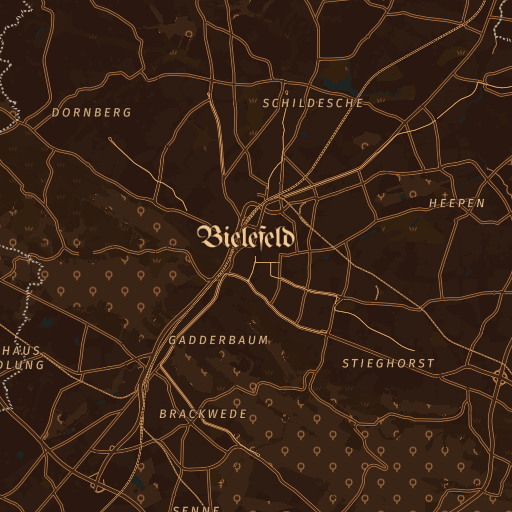
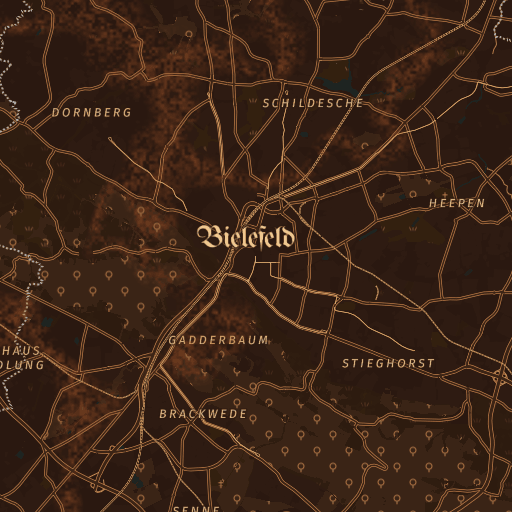
Nordlicht: dunkler Partner von Island mit eingebackenem Nordlicht (stains blend = aurora), Posen je Figur

diff --git a/make-tiles.py b/make-tiles.py
@@ -409,7 +409,10 @@ FIG_CELL = (0.004, 0.006)  # Raster für Figuren in Grad (Breite, Länge), ~450 
 
 
 def fig_poses(name, only=None):
-    """Posen einer Figur, mit only (figures.poses im Stil) nur diese, z. B. ["schlaeft"]."""
+    """Posen einer Figur, mit only (figures.poses im Stil) nur diese, z. B. ["schlaeft"]; als Tabelle je Figur, "*" für
+    alle übrigen (Nordlicht: Tiere schlafen, Trolle sind wach)."""
+    if isinstance(only, dict):
+        only = only.get(name, only.get("*"))
     return sorted(f for f in (ROOT / "vendor" / "figures" / name).glob("*.svg") if not only or f.stem in only)
 
 
@@ -1033,6 +1036,24 @@ def stain_png(data, x, y, cfg):
         rust = (np.clip(1 - np.abs(z + .02) * 45, 0, 1) * np.clip(grain * 2 - .6, 0, 1))[..., None] * .5   # Saum um die Zone
         px = px * (1 - rust) + hexc(cfg.get("rust", "#b0582a")) * rust
         out = np.clip(px * (1 - crust) + green * crust, 0, 255)
+    elif cfg.get("blend") == "aurora":  # Nordlicht (Island-Partner, Nutzerwunsch 2026-11-25): Lichtvorhänge in Bändern alle
+        # ~900 px, die sich schlängeln; unten scharfe helle Kante in color (grün), nach oben ausblassend zu color2
+        # (violett), feine senkrechte Strahlen, nicht überall gleich stark; aufhellend (screen), sonst verschwindet es
+        s = cfg.get("scale", 1)
+        wob = ((noise(gx / (520 * s), np.full_like(gx, 3.5), 11) - .5) * 420 + (noise(gx / (150 * s), np.full_like(gx, 1.5), 13) - .5) * 120) * s
+        v = (gy + wob) / (900 * s)
+        band = np.floor(v)
+        r = v - band                                     # 0 oben … 1 Unterkante
+        ray = noise(gx / (7 * s), band * 7.3, 21) * .6 + noise(gx / (23 * s), band * 5.1, 23) * .4   # Strahlen, 0..1
+        reach = 1.2 + 5 * (1 - ray)                      # helle Strahlen reichen weit nach oben, dunkle kaum
+        glow = (r ** reach + .8 * r ** 14) * np.clip((1 - r) * 18, 0, 1) * (.25 + .75 * ray)   # + heller Saum unten
+        env = np.clip(noise((gx + band * 977) / (650 * s), band * 3.1, 31) * 1.8 - .45, 0, 1)
+        a = (glow * env)[..., None] * cfg.get("strength", .35)
+        hexc = lambda h: np.array([int(h[i:i + 2], 16) for i in (1, 3, 5)], float)
+        t = (r ** 3)[..., None]
+        light = hexc(cfg.get("color", "#4af0a0")) * t + hexc(cfg.get("color2", "#a070f0")) * (1 - t)
+        px = np.asarray(im, float)
+        out = np.clip(255 - (255 - px) * (1 - a * light / 255), 0, 255)
     else:
         out = np.asarray(im, float) * (1 - a * (1 - col))
     buf = io.BytesIO()
@@ -1242,6 +1263,8 @@ def readme_previews(a, mb):
         style = build_style(st, meta.get("preview_font", meta.get("font")), (a.lat, a.lon))[0]
         with tileserver(style, f"readme-{st.stem}", mb) as base:
             data = fetch(f"{base}/static/{a.lon},{a.lat},12/512x512.png")
+        if meta.get("stains"):   # Flecken/Nordlicht wie in den Kacheln (Bild wie eine @2x-Kachel bei 0/0)
+            data = stain_png(data, 0, 0, meta["stains"])
         data = quantize(data, a.colors or meta.get("colors", 32))
         (dest / f"{st.stem}.png").write_bytes(data)
         optimize([dest / f"{st.stem}.png"])

diff --git a/CLAUDE.md b/CLAUDE.md
@@ -38,7 +38,7 @@ There are no tests. To check a rendering change, re-render and look at a tile ne
    - Measured for 198 z16 retina tiles: 1 worker 8.5 s, 4 workers 2.6 s, 8 or more about 3.4 s, because rendering and WebP encoding already use several cores. Container start is about 0.7 s, so one container per variant is fine.
    - Format: by default each tile is fetched as PNG and piped through `quantize()`: `pngquant <colors> --nofs --strip` (`--colors`, else the style's `colors`, else 32; Stadtlichter/Blaue Stunde use 64 because lamp pools and trail glows broke into rings at 32, ~30 % larger tiles), and `optimize()` runs `oxipng -o 2` over the new files after the container has stopped (optional; looked up in PATH and `~/.cargo/bin`). Measured on 80 retina tiles around the Sparrenburg: oxipng saves 7–10 % losslessly (about 0.2 s per tile on this 2-core VM); 32 colours + oxipng is the size of 24 without it, but more accurate (RMSE 0.70 % vs 0.88 %). 16 colours + oxipng would be 19 % smaller with no visible difference in samples, 12 loses icon colours. ImageMagick quantising is 3–4× slower. `--format webp` keeps the old path. The extension is stored as `ext` in the config, and `template.html`/`streifen.html` build tile URLs from it.
    - Finally it fills `template.html` into `out/<name>/index.html` by replacing the `/*CONFIG*/{}` placeholder with JSON. The config includes `style`, `font`, `category`, `mode`, `family` and `attribution`.
-`tileserver(style, tag, mb)` is the context manager both paths share. `render()` fetches tiles through it. `readme_previews()` fetches one tileserver static image per style (`/styles/map/static/lon,lat,12/512x512.png`) in its `preview_font`, runs it through pngquant and writes it to `docs/previews/`. The README gallery is a Hell/Dunkel table per family that links those files, so update it when styles are added or renamed.
+`tileserver(style, tag, mb)` is the context manager both paths share. `render()` fetches tiles through it. `readme_previews()` fetches one tileserver static image per style (`/styles/map/static/lon,lat,12/512x512.png`) in its `preview_font`, bakes in `stains` like a @2x tile at 0/0 (so aurora/patina show), runs it through pngquant and writes it to `docs/previews/`. The README gallery is a Hell/Dunkel table per family that links those files, so update it when styles are added or renamed.
 5. `write_previews()` copies `streifen.html` as `index.html` (same page as `site/`; an existing `index.html` without `variants.js` is never overwritten, so `--out` into a website is safe; old `compare.html`/`streifen.html` are deleted) and Leaflet into `out/`, and regenerates `out/variants.js` (`VARIANTS`, `TITLES`, `CONFIGS`) from every `out/*/index.html`.
 
 **The script and `template.html` are coupled.** The tile coverage in `tiles_for()` assumes Leaflet's `maxBounds` = the `--radius` bbox:
@@ -156,8 +156,10 @@ There are no tests. To check a rendering change, re-render and look at a tile ne
       - Places tuning: very common classes (shop, garden, park, kindergarten under class school) made single figures dominate; keep places to rarer classes and check the spread with a `figures()` dry run (Counter over `properties.f`).
       - The layer lies below all labels, with `icon-allow-overlap`/`ignore-placement`, because collision would decide differently per tile and cut figures at tile seams. Historisch/Kupferstich use the same mechanism for their Fabelwesen.
     - Marker `look = "manga"` (bubble only): thick ink border, hard offset shadow, "!" in `color2`; CSS in `template.html` and `src/streifen.css`, JS in both `markerIcon()` copies.
-  - **Island** (user request 2026-11-25, standard, family "Island"; dark partner "Nordlicht" planned: polar night, aurora baked into the tiles like `stains`, trolls/huldufólk awake, animals asleep): Icelandic summer landscape. Moss-grey ground, patterns `moos`/`lupinen`/`birken` (vendor/patterns), glacier-turquoise water with `water_lines`, roofs by OSM id in Reykjavík corrugated-iron colours (building-top translated −1.5 px), lava-grey roads, mustard primary, oxblood motorway. Alegreya Sans (group `display`), place labels and marker in Uncial Antiqua (group `uncial`), marker `look = "strick"` (knitted zigzag border; CSS in `template.html` and `src/streifen.css`). No rock/quarry layer exists in `style/base.json`, so the planned basalt hatching was skipped.
+  - **Island** / **Nordlicht** (user request 2026-11-25, standard, family "Island"): Icelandic summer landscape. Moss-grey ground, patterns `moos`/`lupinen`/`birken` (vendor/patterns), glacier-turquoise water with `water_lines`, roofs by OSM id in Reykjavík corrugated-iron colours (building-top translated −1.5 px), lava-grey roads, mustard primary, oxblood motorway. Alegreya Sans (group `display`), place labels and marker in Uncial Antiqua (group `uncial`), marker `look = "strick"` (knitted zigzag border; CSS in `template.html` and `src/streifen.css`). No rock/quarry layer exists in `style/base.json`, so the planned basalt hatching was skipped.
     - Figures (`ISLAND` in `tools/gen_figures.py`, palette `ISL`): Scandinavian picture-book folk art, approved by the user on horse/troll/puffin samples: flat fills, no hatching, shadow = one darker fill, dot eyes, red cheeks, ornaments (lopapeysa yoke, zigzag, dots) without outline via `clip()`, thin night-blue outline (`line = 1.2`, `size = 64`). 18 figures, water ones (`nykur`, `marbendill`, `seewurm`, `wal`, `eiderente`) only in water via `isl_water()`. `jolasveinn` must not look like Santa (grey hood, no red cap/white pompom); `troll` sleeps as a mossy rock (turns to stone in sunlight); `huldufolk` pose `verschwindet` is half transparent.
+    - `nordlicht` (dark partner): polar night blue-black, dark roofs with warm windows (`fenster` pattern per roof colour by OSM id via a `match` in `fill-pattern`), `colors = 64`, figures with `ink`/`sticker` overrides (moonlit rim). Aurora via `stains = { blend = "aurora" }` (`stain_png()`): world-aligned bands every ~900 px whose lower edge wobbles (two noise octaves), bright green rim (`color`) fading up to violet (`color2`), vertical rays whose reach varies, envelope so not every band is lit; screen blend (lightens). Tune it on blank tiles by calling `stain_png()` directly, much faster than re-rendering.
+    - `[figures.poses]` may be a table per figure with `"*"` for the rest (`fig_poses()`): in Nordlicht the animals sleep, trolls, huldufólk, fairies, Yule cat/lad and water creatures are awake.
   - **Stadtlichter** / **Blaue Stunde** (user request 2026-11-24/25, family "Stadtlichter", standard, drafts not yet on `site.toml`): a city at night from above, after a night photo; not named "Night City" (Cyberpunk 2077 trademark). Roads: bright core + blurred glow casings, cores darken to dark asphalt from z15 and the sodium glow casings drop to half opacity, so the light trails carry the light (user 2026-11-25, long-exposure reference photos); buildings get a window grid per OSM id (`fenster-dicht`/`fenster-spaerlich`: half nearly dark, rest warm, every sixth cold; high-rises ≥ 18 m cold; each window glows: two Gaussian blurs inside the SVG, the windows drawn again at ±32 px so the glow wraps seamlessly, clipped to 32×32 so it does not bleed into neighbouring sprite images), replacing the random dots the user found noise-like (blocks are Planetiler-merged at z14, so one grid covers a whole block); the `stadtlichter` dots stay only on residential/commercial/industrial landuse and fade out by z15; Blaue Stunde = same layers on mid-blue dusk, glows weaker.
     - Style key `[[layers]]` (`add_layer()`): extra layer, `like` = template layer (copied with filter, paint, layout; an own `filter` is ANDed), or `source-layer` for a fresh layer from the template's source (give `type` if it differs); inserted after `after` (default `like`). The `[paint]`/`[layout]` globs do not reach these layers. Used for light trails like a long exposure (per side a bundle of three thin streaks via `line-offset`: right red/orange/pink-red, left white/yellowish/pale blue, plus a wide blurred glow; all road classes, width/opacity/offset scaled per class by a `match`; the block is generated, keep its parameters consistent when editing by hand), street lamps like lamps in fog (both sides of minor roads, round-capped `line-dasharray` layers on the same spots: one wide, fully soft golden pool centred on the road (blur = half width; offset to the sides it made spikes at bends) that lies below the buildings so the light is trapped between the houses (user 2026-11-25), plus the same pool at 40 % opacity above roads and buildings (`laterne-bloom`: lights the carriageway and blooms slightly over building edges), per side a tighter glow and a tiny bright core; the gap is in line widths, so gap = 25.2 px / width; dots bunch at segment ends, that is the dasharray restart), floodlit pitches, violet neon on pedestrian streets.
   - **Nerd** (editor-theme palettes): `dayfox`/`nightfox`, `catppuccin-latte`/`-mocha`, `dracula-light` ("Alucard", the official Dracula light palette) / `dracula`, `solarized-light`/`-dark`, `gruvbox-light`/`-dark`, `everforest-light`/`-dark`, `one-light`/`-dark` (Atom One) (all MIT), and `tokyonight-day`/`-night` (Apache-2.0).

diff --git a/README.md b/README.md
@@ -28,7 +28,7 @@ Alle Stile in ihrer Vorschau-Schrift (Standard: Fira Sans, Nerd: Maple Mono), Bi
 | **Historisch**<br><sub>Standard</sub> | <a href="docs/previews/historisch.png"><img src="docs/previews/historisch.png" width="256" alt="Historisch"></a><br>Historisch | <a href="docs/previews/gaslicht.png"><img src="docs/previews/gaslicht.png" width="256" alt="Gaslicht"></a><br>Gaslicht |
 | **Kupferstich**<br><sub>Standard</sub> | <a href="docs/previews/kupferstich.png"><img src="docs/previews/kupferstich.png" width="256" alt="Kupferstich"></a><br>Kupferstich | <a href="docs/previews/kupferplatte.png"><img src="docs/previews/kupferplatte.png" width="256" alt="Kupferplatte"></a><br>Kupferplatte |
 | **Anime**<br><sub>Standard</sub> | <a href="docs/previews/anime.png"><img src="docs/previews/anime.png" width="256" alt="Anime"></a><br>Anime | <a href="docs/previews/anime-nacht.png"><img src="docs/previews/anime-nacht.png" width="256" alt="Anime Nacht"></a><br>Anime Nacht |
-| **Island**<br><sub>Standard</sub> | <a href="docs/previews/island.png"><img src="docs/previews/island.png" width="256" alt="Island"></a><br>Island | (dunkel: Nordlicht, geplant) |
+| **Island**<br><sub>Standard</sub> | <a href="docs/previews/island.png"><img src="docs/previews/island.png" width="256" alt="Island"></a><br>Island | <a href="docs/previews/nordlicht.png"><img src="docs/previews/nordlicht.png" width="256" alt="Nordlicht"></a><br>Nordlicht |
 | **Stadtlichter**<br><sub>Standard</sub> | <a href="docs/previews/blaue-stunde.png"><img src="docs/previews/blaue-stunde.png" width="256" alt="Blaue Stunde"></a><br>Blaue Stunde | <a href="docs/previews/stadtlichter.png"><img src="docs/previews/stadtlichter.png" width="256" alt="Stadtlichter"></a><br>Stadtlichter |
 | **Catppuccin**<br><sub>Nerd</sub> | <a href="docs/previews/catppuccin-latte.png"><img src="docs/previews/catppuccin-latte.png" width="256" alt="Catppuccin Latte"></a><br>Catppuccin Latte | <a href="docs/previews/catppuccin-mocha.png"><img src="docs/previews/catppuccin-mocha.png" width="256" alt="Catppuccin Mocha"></a><br>Catppuccin Mocha |
 | **Dracula**<br><sub>Nerd</sub> | <a href="docs/previews/dracula-light.png"><img src="docs/previews/dracula-light.png" width="256" alt="Alucard"></a><br>Alucard | <a href="docs/previews/dracula.png"><img src="docs/previews/dracula.png" width="256" alt="Dracula"></a><br>Dracula |
@@ -144,7 +144,7 @@ Die Ebenennamen stehen in `style/base.json`. Pro Ebene werden nur passende Eigen
 | **Historisch** | Standard | TeX Gyre Schola, Ortsnamen UnifrakturMaguntia | eigener Stil: kolorierter Stadtplan um 1900 (rosa Häuser, Wald-/Wiesen-/Friedhofs-Signaturen, Wasserlinien, Bahn als Schwarz-Weiß-Band, stillgelegte Strecken aus OSM wie in Betrieb, Altersflecken in den Kacheln, Papierkorn im Browser); dunkel: **Gaslicht**, derselbe Plan bei Nacht (blauschwarzes Papier, gelbe Hauptstraßen, Gaslaternen an Nebenstraßen) |
 | **Kupferstich** | Standard | IM Fell English, Ortsnamen UnifrakturMaguntia | eigener Stil im Look eines Kupferstichs des 18. Jh.: einfarbig Sepia, sonst wie Historisch; dunkel: **Kupferplatte**, die gestochene Platte selbst (dunkle Bronze, helle Linien, Grünspan statt Altersflecken) |
 | **Anime** / Nacht | Standard | Kalam, Orts- und POI-Namen Bangers | eigener Stil im allgemeinen Look von Anime-Zeichentrick (keine Studios, Filme oder Figuren): Cel-Shading mit hartem Schlagschatten, Tuschekonturen, Dächer in Pastelltönen, Wolkenbäume, Manga-Grasbüschel, Rasterfolie, Wasser mit Glanzlinien, Manga-Sprechblase als Marker; Nacht in Tiefblau/Violett mit leuchtenden Fenstern |
-| **Island** | Standard | Alegreya Sans, Ortsnamen Uncial Antiqua | eigener Stil: isländische Sommerlandschaft (Moosgrund, Lupinenfelder, Birkengebüsch, gletschertürkises Wasser, bunte Wellblechdächer, senfgelbe Hauptstraßen), Marker mit Strickborte; Figuren als skandinavische Bilderbuch-Volkskunst: Islandpferde, Schafe, Papageitaucher, Polarfuchs, Kolkrabe, Rentier, Trolle (schlafend zu Stein), Huldufólk in Tracht, Elfensteine, Feen, Weihnachtskatze und Weihnachtskerl, Badende im heißen Becken; im Wasser Nykur, Marbendill, Seewurm, Wal und Eiderente |
+| **Island** | Standard | Alegreya Sans, Ortsnamen Uncial Antiqua | eigener Stil: isländische Sommerlandschaft (Moosgrund, Lupinenfelder, Birkengebüsch, gletschertürkises Wasser, bunte Wellblechdächer, senfgelbe Hauptstraßen), Marker mit Strickborte; Figuren als skandinavische Bilderbuch-Volkskunst: Islandpferde, Schafe, Papageitaucher, Polarfuchs, Kolkrabe, Rentier, Trolle (schlafend zu Stein), Huldufólk in Tracht, Elfensteine, Feen, Weihnachtskatze und Weihnachtskerl, Badende im heißen Becken; im Wasser Nykur, Marbendill, Seewurm, Wal und Eiderente; dunkel: **Nordlicht**, Polarnacht mit grün-violettem Nordlicht (in die Kacheln eingebacken), dunklen Dächern mit leuchtenden Fenstern, schlafenden Tieren und wachen Sagenwesen |
 | **Stadtlichter** / **Blaue Stunde** | Standard | Fira Sans | eigener Stil: Stadt bei Nacht von oben, nach einem Nachtfoto: Straßen mit hellem Kern und orangem Lichtschein, rote und weiße Lichtspuren auf Hauptstraßen, Laternen als Lichtperlen, Fensterlichter (Hochhäuser kaltweiß), grünes Flutlicht auf Sportplätzen, violettes Neon in Fußgängerzonen; Blaue Stunde dasselbe in der Dämmerung auf Blau |
 | **Protomaps Light** / **Dark** | Standard | Figtree | Protomaps Basemaps (Design CC0) |
 | **Wiki** / Dark | Standard | Work Sans | Wikimedia Maps (github.com/wikimedia/osm-bright.tm2; Design CC BY 3.0, Namensnennung im Stil) |
